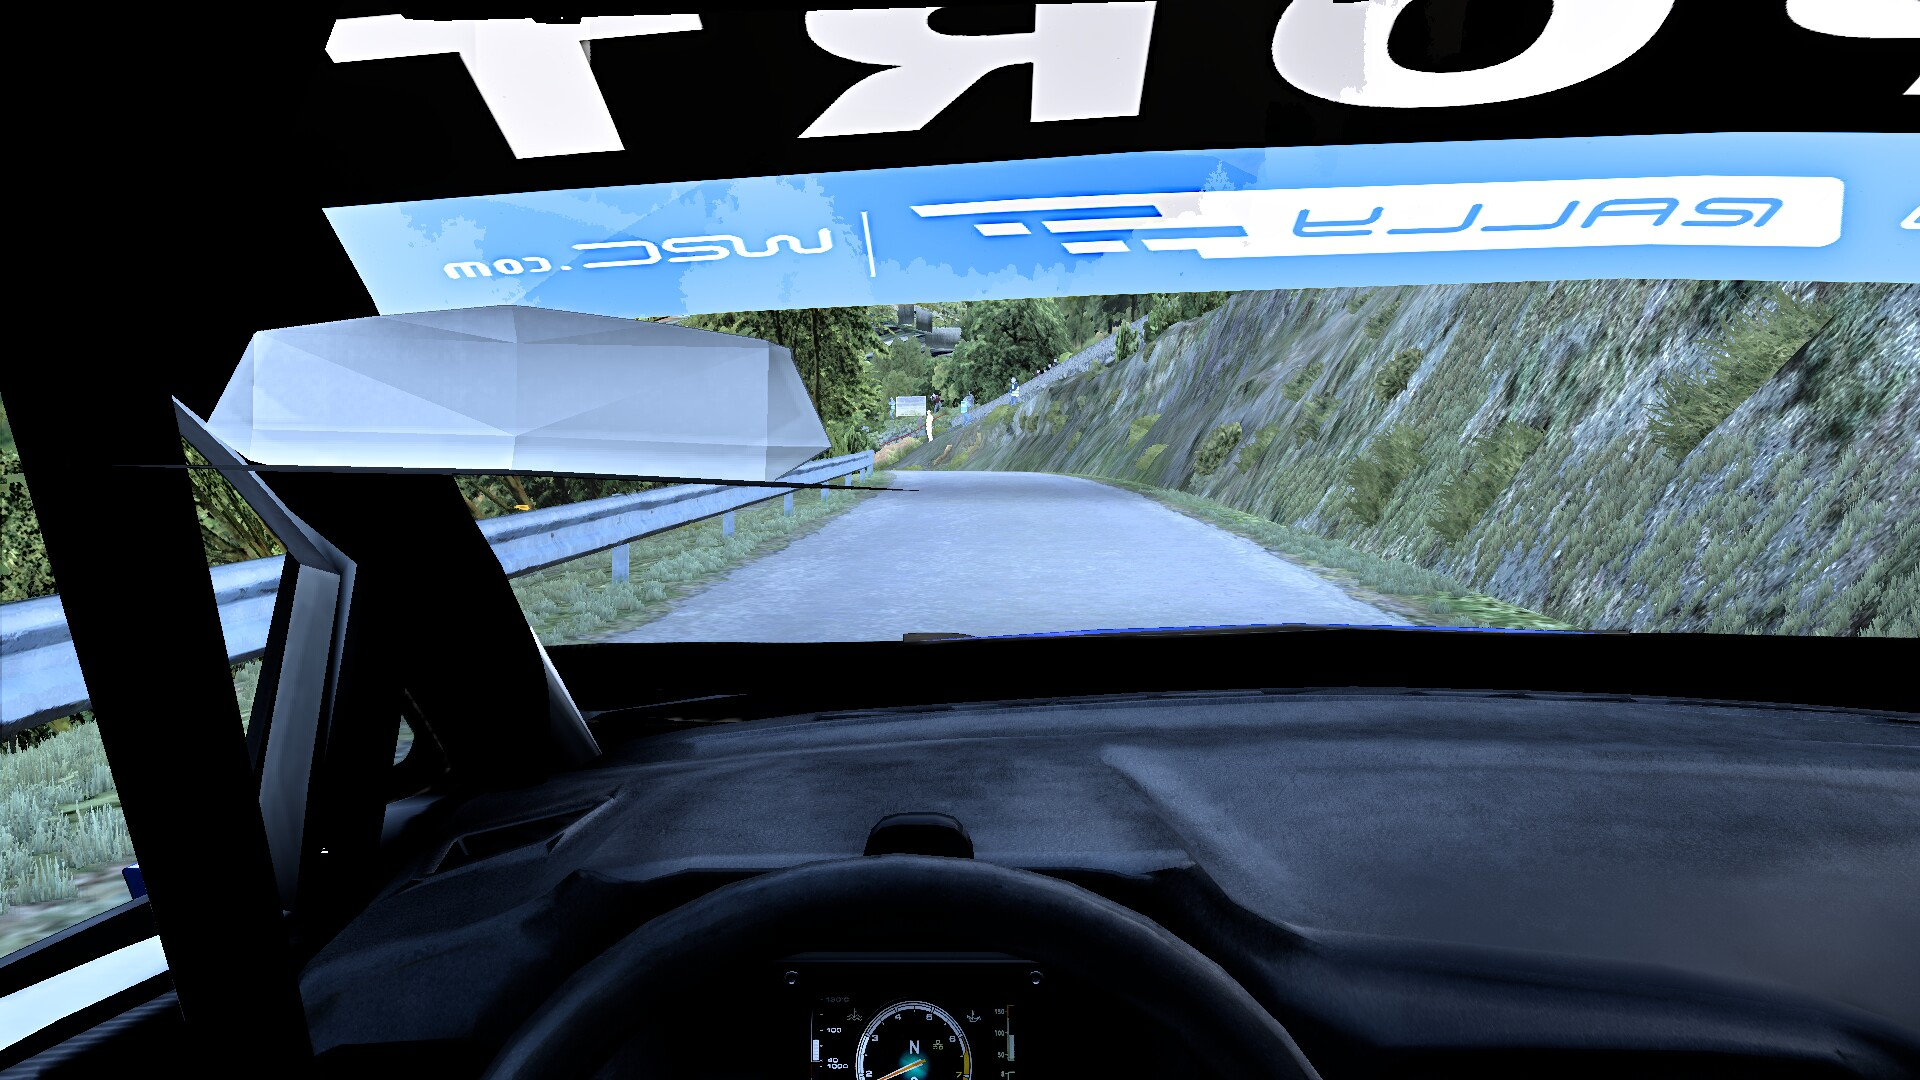
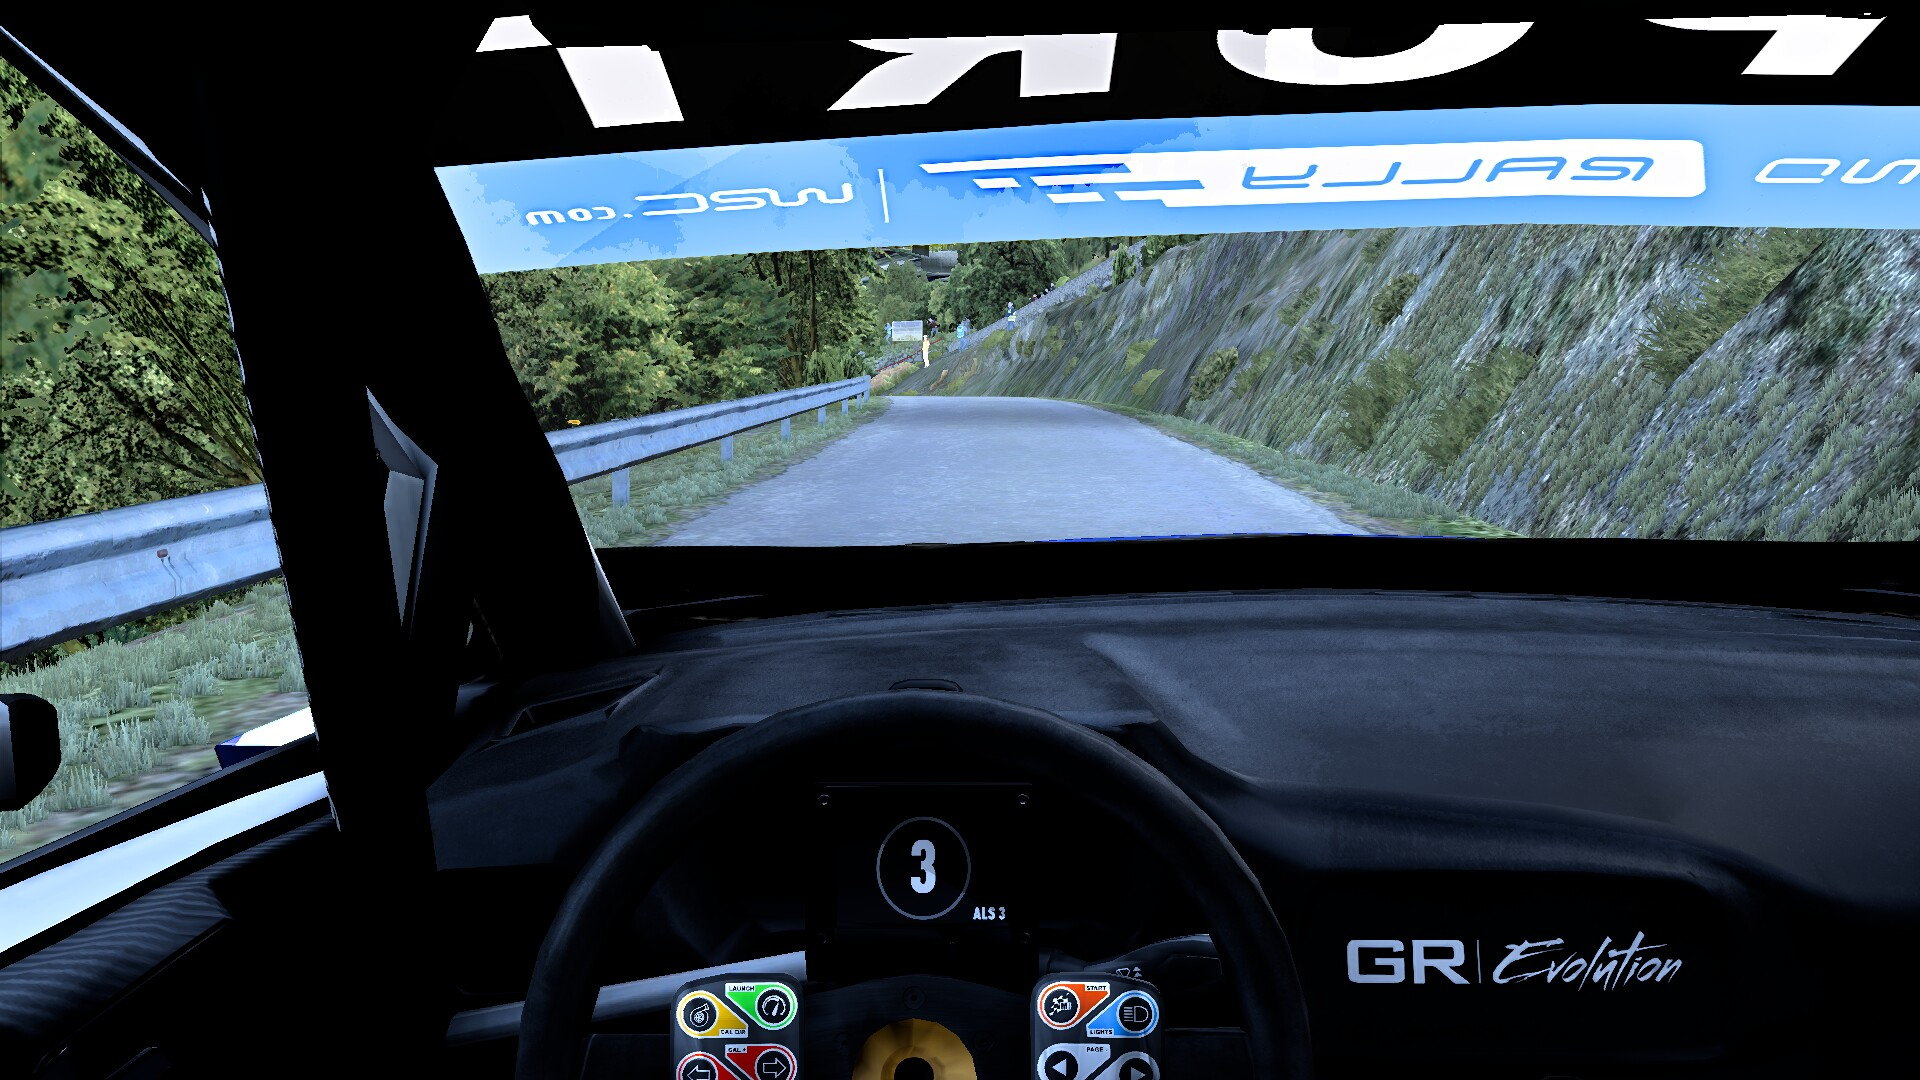
Cockpit: a model's own crew (i_drivers) is not drawn; the Fiesta Rally2 cockpit shot re-rendered against the RSF install

diff --git a/crates/rbr-render/src/car/mod.rs b/crates/rbr-render/src/car/mod.rs
@@ -72,6 +72,11 @@ const UNBUILT_PREFIXES: [&str; 2] = ["k_", "d_"];
 /// either the interior lists (mode 0, the in-car views) or the exterior ones (rbr-recomp `notes/formats/sgc.md`, section 9).
 /// [`load`] reads the exterior set and [`load_interior`] the interior one, for the viewer's cockpit view.
 const INTERIOR_PREFIX: &str = "i_";
+/// The crew some RSF models hold as an interior part (the Fiesta Rally2, the i20 Rally2 and the i20 WRC 2020 and 2021,
+/// of the installed models): a static driver and co-driver, helmets and all, which the game draws with the rest of the
+/// interior. Ours: never drawn, as the game's own crew is not in the cockpit ([`crate::views::CarView::shows_crew`]);
+/// the cockpit eye sits behind `Cam_internal` and would look at the back of the driver's helmet.
+const BAKED_CREW: &str = "i_drivers";
 /// Wheels and spare wheels (and their straps) come in surface variants. The loader builds those whose name has
 /// its surface; only tarmac is drawn, as the surface choice is not traced.
 const SURFACE_PARTS: [&str; 2] = ["_wheel_", "sparewheel"];
@@ -119,6 +124,8 @@ pub enum Skip {
     Plane,
     /// An interior part the 1.02 loader does not build.
     LoaderDrops,
+    /// The model's own crew in the interior set ([`BAKED_CREW`]).
+    BakedCrew,
     /// The interior set, drawn only in the in-car views.
     Interior,
     /// Not in the interior set ([`load_interior`]): the outside views' parts.
@@ -141,6 +148,7 @@ impl Display for Skip {
             Skip::Overlay => "overlay layer (milestone 5)",
             Skip::Plane => "shadow plane (decal, milestone 5)",
             Skip::LoaderDrops => "not built by the 1.02 loader",
+            Skip::BakedCrew => "the model's own crew (no crew in the cockpit)",
             Skip::Switched => "switch part hidden at the start (Switch = true)",
             Skip::Interior => "interior set (in-car views only)",
             Skip::Exterior => "exterior set (outside views only)",

diff --git a/crates/rbr-render/src/car/tests.rs b/crates/rbr-render/src/car/tests.rs
@@ -5,7 +5,7 @@ use rbr_recording::detach;
 
 use super::files::folder;
 use super::meshes::{build_meshes, in_draw_order};
-use super::parts::{detach_part, part_for};
+use super::parts::{detach_part, interior_part_for, part_for};
 use super::shading::{draw_state, list_for, pass_for, FaceStyle, List, Pass};
 
 #[test]
@@ -243,6 +243,8 @@ fn skip_reasons_follow_name_and_part() {
     assert_eq!(part_for("k_windscreen", &parts).unwrap_err(), Skip::LoaderDrops);
     assert_eq!(part_for("pc_e_premove", &parts).unwrap_err(), Skip::LoaderDrops);
     assert_eq!(part_for("i_body", &parts).unwrap_err(), Skip::Interior);
+    assert_eq!(part_for("i_drivers", &parts).unwrap_err(), Skip::BakedCrew);
+    assert_eq!(interior_part_for("i_drivers", &parts).unwrap_err(), Skip::BakedCrew);
     assert_eq!(part_for("e_missing", &parts).unwrap_err(), Skip::NoSection);
     assert!(part_for("e_light_lf", &parts).is_ok());
     assert!(part_for("e_light_lf_off", &parts).is_ok());

diff --git a/crates/rbr-render/src/car/parts.rs b/crates/rbr-render/src/car/parts.rs
@@ -2,7 +2,7 @@
 //! sections of the exterior, interior and ghost sets ([`Skip`] for the rest).
 
 use super::{
-    Skip, GHOST_PREFIX, INTERIOR_PREFIX, LOADER_DROPS, OVERLAY_PREFIX, PLANE_PREFIX, PREMOVE_PART, SURFACE,
+    Skip, BAKED_CREW, GHOST_PREFIX, INTERIOR_PREFIX, LOADER_DROPS, OVERLAY_PREFIX, PLANE_PREFIX, PREMOVE_PART, SURFACE,
     SURFACE_PARTS, UNBUILT_PREFIXES,
 };
 use crate::lights;
@@ -77,6 +77,9 @@ fn part_in_set<'a>(name: &str, parts: &'a [Section], interior: bool) -> Result<&
         || UNBUILT_PREFIXES.iter().any(|p| name.starts_with(p))
     {
         return Err(Skip::LoaderDrops);
+    }
+    if name.eq_ignore_ascii_case(BAKED_CREW) {
+        return Err(Skip::BakedCrew);
     }
     if name.starts_with(INTERIOR_PREFIX) != interior {
         return Err(if interior { Skip::Exterior } else { Skip::Interior });

diff --git a/notes/renderer.md b/notes/renderer.md
@@ -1020,7 +1020,9 @@ replays only the 4 s warm-up, so captures show short trails.
 
 `characters/` (documents the spawn, triggers, visibility, crew and scripted events): `.lbs` `(2,14)` items in
 `(2,15)` random groups, Lua 4.0 scripts, `.sga` clips, CPU skinning. Generators: the exe's LCG and msvcr71 `rand()`,
-`--seed`. In-car crew: chase views only, as the High renderer. Tests: `tests/characters_data.rs`,
+`--seed`. In-car crew: chase views only, as the High renderer. Ours: a model's own crew in its interior set (`i_drivers`: the RSF Fiesta
+Rally2, i20 Rally2, i20 WRC 2020 and 2021) is not drawn either (`car::BAKED_CREW`); behind `Cam_internal` the cockpit eye
+saw the driver's helmet from the back (the Fiesta without its `_personal.ini`, 2026-11-10). Tests: `tests/characters_data.rs`,
 `scripted_data.rs`, `crew_data.rs`.
 
 ## Fences and dials
